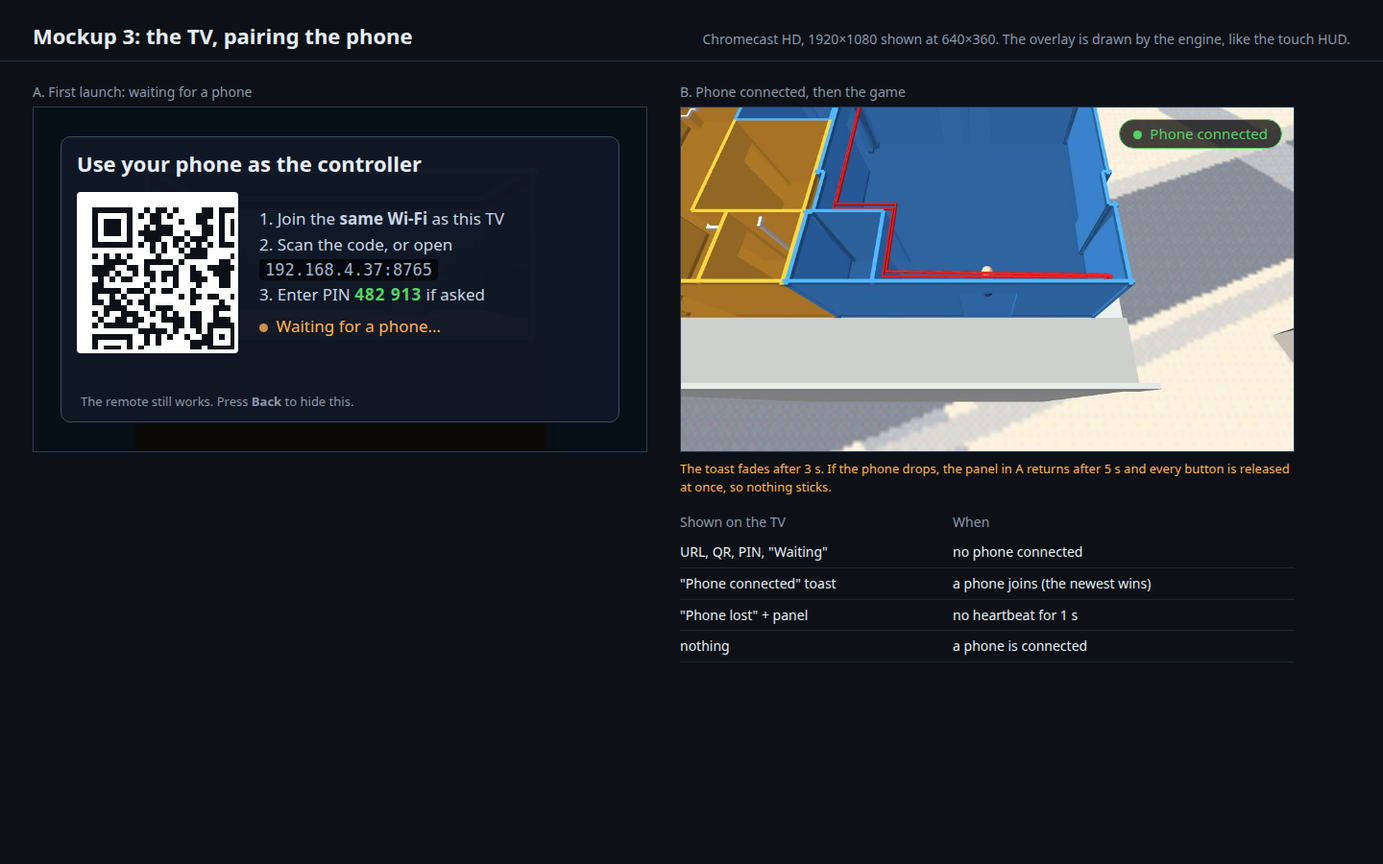
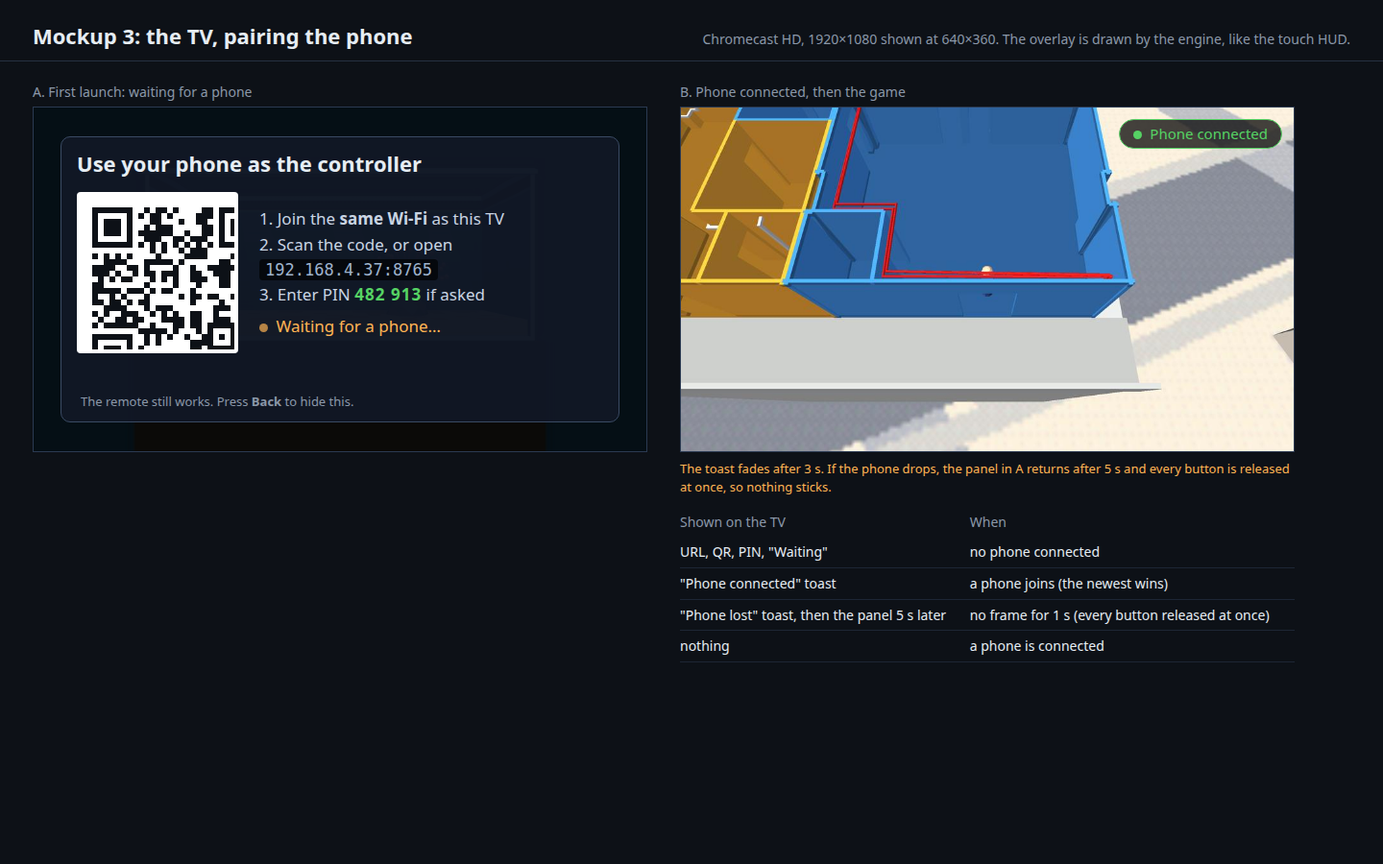
Aquarium-Chromecast plan and phone mockups: the condo's A is doors and shade, no B button; status of Phase E
Since 41742943 the condo's A toggles the glass doors and the balcony shade, there is no hop and B does
nothing on its own. Design item 3 ("A hop, B doors"), the Why paragraph and the note on the user's layout
decision now say so; mockup 2 shows A "doors / shade", no B, E zoom in and F zoom out (as camera_controls.fth
uses them), the engine's real EJ_BUTTONF bits in its mask line and the engine's stick threshold (0.5);
mockup 3's table and mockup 4's keep-awake card match what was built. The newer Phase E sub-step list,
which had landed above the title, replaces the older one. Mockups regenerated with make_phone_mockups.py.

Claude-Session: https://claude.ai/code/session_01DxMP4jUNjCjDz8E9DWzXcM

Changed region(s): [[0.5625, 0.5911, 0.9062, 0.7778]]

diff --git a/docs/plans/2026-09-30-aquarium-chromecast/phone-controller.html b/docs/plans/2026-09-30-aquarium-chromecast/phone-controller.html
@@ -18,10 +18,10 @@ h1{margin:0;font-size:22px;font-weight:650}.top{padding:22px 34px 10px;border-bo
 <div style="padding:18px 34px"><div style="display:flex;gap:34px"><div><div class="sub" style="margin-bottom:6px">A. Aquarium: stick plus two buttons</div>
  <div class="phone"><div class="screen"><div class="status"><span class="dot g"></span> Connected to the TV</div>
   <div class="stick" style="left:34px;top:92px"><div class="ring"></div><div class="knob"></div></div><div class="btn " data-b="A" style="left:500px;top:120px">A</div><div class="btn " data-b="B" style="left:420px;top:160px">B</div></div></div>
- <div class="note" style="margin-top:8px;max-width:600px">Steers the clownfish (A and B are free for later). The stick maps to the same four directions the D-pad does (threshold 28 px of 70), so it behaves exactly like the remote.</div></div><div><div class="sub" style="margin-bottom:6px">B. Condo: stick plus the buttons the remote cannot reach</div>
+ <div class="note" style="margin-top:8px;max-width:600px">Steers the clownfish (A and B are free for later). The stick maps to the same four directions the D-pad does (threshold half the radius, 35 px of 70, the engine's own analog-stick threshold), so it behaves exactly like the remote.</div></div><div><div class="sub" style="margin-bottom:6px">B. Condo: stick plus the buttons the remote cannot reach</div>
  <div class="phone"><div class="screen"><div class="status"><span class="dot g"></span> Connected to the TV</div>
-  <div class="stick" style="left:34px;top:92px"><div class="ring"></div><div class="knob"></div></div><div class="btn " data-b="A" style="left:520px;top:150px">hop</div><div class="btn " data-b="B" style="left:440px;top:98px">doors</div><div class="btn " data-b="C" style="left:520px;top:46px">teleport</div><div class="btn hold" data-b="D" style="left:350px;top:150px">orbit (hold)</div><div class="btn small" data-b="E" style="left:262px;top:46px">zoom −</div><div class="btn small" data-b="F" style="left:262px;top:106px">zoom +</div></div></div>
- <div class="note" style="margin-top:8px;max-width:600px">Doors (B), the 639⇄640 teleport (C), orbit (hold D with the stick) and zoom (E/F) are exactly what a TV remote cannot do. This closes the condo plan's gamepad question without buying a gamepad.</div></div></div>
+  <div class="stick" style="left:34px;top:92px"><div class="ring"></div><div class="knob"></div></div><div class="btn " data-b="A" style="left:520px;top:150px">doors / shade</div><div class="btn " data-b="C" style="left:520px;top:46px">teleport</div><div class="btn hold" data-b="D" style="left:350px;top:150px">orbit (hold)</div><div class="btn small" data-b="E" style="left:262px;top:46px">zoom in</div><div class="btn small" data-b="F" style="left:262px;top:106px">zoom out</div></div></div>
+ <div class="note" style="margin-top:8px;max-width:600px">A toggles the glass doors and the balcony shade (since 2026‑10‑01 there is no hop, and B does nothing on its own, so there is no B button). The 639⇄640 teleport (C), orbit (hold D with the stick; D + A resets the view) and zoom (E in, F out) are what a TV remote cannot do. This closes the condo plan's gamepad question without buying a gamepad.</div></div></div>
 <div class="tiltbar"><label class="sw"><input type="checkbox" id="tiltOn"> <b>Tilt steering</b></label>
  <span class="sub">simulate the phone's tilt:</span> roll <input type="range" id="tx" min="-30" max="30" value="0"> pitch <input type="range" id="ty" min="-30" max="30" value="0">
  <button id="neutral">Set neutral</button> <span class="lvl"><span class="lvlring"><span id="bubble"></span></span></span> <code id="tdeg">off</code>
@@ -30,7 +30,7 @@ h1{margin:0;font-size:22px;font-weight:650}.top{padding:22px 34px 10px;border-bo
 <div class="mask"><span class="sub">sent to the TV on every change (and every 250 ms as a heartbeat):</span><br><code id="mask"></code></div></div>
 <script>
 const touch={}, tilt={LEFT:false,RIGHT:false,UP:false,DOWN:false}, out=document.getElementById('mask');
-const bits={LEFT:1,RIGHT:2,UP:4,DOWN:8,A:16,B:32,C:64,D:128,E:256,F:512};
+const bits={A:1,B:2,C:4,D:8,E:16,F:32,UP:2048,DOWN:4096,RIGHT:8192,LEFT:16384};   // the engine's EJ_BUTTONF_* (hal/sjoystic.h), as the app's layout.json sends them
 const ON=12, OFF=8;                       // tilt dead zone in degrees: a direction turns on past 12 and off below 8 (hysteresis, no flicker)
 function quant(deg,neg,pos){ if(deg<=-ON) tilt[neg]=true; else if(deg>-OFF) tilt[neg]=false; if(deg>=ON) tilt[pos]=true; else if(deg<OFF) tilt[pos]=false; }
 function render(){let m=0,names=[];for(const k in touch)if(touch[k]){m|=bits[k];names.push(k);}
@@ -47,7 +47,7 @@ document.querySelectorAll('[data-b]').forEach(el=>{
 document.querySelectorAll('.stick').forEach(st=>{
   const knob=st.querySelector('.knob');
   function set(dx,dy){const r=70,d=Math.hypot(dx,dy)||1,s=Math.min(1,r/d);knob.style.transform=`translate(${dx*s}px,${dy*s}px)`;
-    const t=28;touch.LEFT=dx<-t;touch.RIGHT=dx>t;touch.UP=dy<-t;touch.DOWN=dy>t;render();}
+    const t=35;touch.LEFT=dx<-t;touch.RIGHT=dx>t;touch.UP=dy<-t;touch.DOWN=dy>t;render();}
   st.addEventListener('pointerdown',e=>{st.setPointerCapture(e.pointerId);const b=st.getBoundingClientRect();st._c=[b.left+b.width/2,b.top+b.height/2];set(e.clientX-st._c[0],e.clientY-st._c[1]);});
   st.addEventListener('pointermove',e=>{if(st._c&&e.buttons)set(e.clientX-st._c[0],e.clientY-st._c[1]);});
   const end=()=>{st._c=null;knob.style.transform='translate(0,0)';touch.LEFT=touch.RIGHT=touch.UP=touch.DOWN=false;render();};

diff --git a/docs/plans/2026-09-30-aquarium-chromecast/phone-states.html b/docs/plans/2026-09-30-aquarium-chromecast/phone-states.html
@@ -14,7 +14,7 @@ h1{margin:0;font-size:22px;font-weight:650}.top{padding:22px 34px 10px;border-bo
  <div class="c"><div class="s"><div class="ph2 w">Reconnecting… <small>buttons off</small></div></div><h3 class="warn">3 Signal lost</h3><p>No reply for 1 s: buttons grey out and the phone retries every second. <b>The TV releases every button at once</b> (no stuck RIGHT).</p></div>
  <div class="c"><div class="s"><div class="ph2 r">Wrong code. Scan the TV again.</div></div><h3 class="bad">4 Wrong PIN</h3><p>The PIN in the URL does not match this launch's: HTTP 403 and a plain message. No game input accepted.</p></div>
  <div class="c"><div class="s"><div class="ph2 r">Can’t reach the TV.<br><small>Same Wi-Fi? Guest network?</small></div></div><h3 class="bad">5 Not on the same Wi-Fi</h3><p>Nothing answers within 5 s. The page says why: join the TV's network; a guest network or <i>AP isolation</i> blocks it.</p></div>
- <div class="c"><div class="s"><div class="ph2 w">Screen kept awake</div></div><h3 class="warn">6 Phone locks or sleeps</h3><p>A screen Wake Lock is requested while connected. If the phone sleeps anyway, it is state 3 and the TV releases the buttons.</p></div>
+ <div class="c"><div class="s"><div class="ph2 w">Screen kept awake</div></div><h3 class="warn">6 Phone locks or sleeps</h3><p>The page keeps the screen awake while connected (a silent looping video: the Wake Lock API needs https). If the phone sleeps anyway, the page releases everything and it is state 3 on the TV.</p></div>
  <div class="c"><div class="s"><div class="ph2 w">Another phone took over</div></div><h3 class="warn">7 A second phone joins</h3><p>The newest connection wins; the first sees “Another phone took over”. Two players is a later feature.</p></div>
  <div class="c"><div class="s"><div class="ph2 w">Enable tilt <small>(one-time certificate prompt)</small></div></div><h3 class="warn">8 Tilt needs a secure page</h3><p>Browsers expose tilt only to <b>https</b> pages. Tap “Enable tilt”: the page reloads over https from the TV and your browser asks once about the certificate. Sticks and buttons never need this.</p></div>
  <div class="c"><div class="s"><div class="ph2 w">Haptics: not on this phone</div></div><h3 class="warn">9 No haptics on iPhone</h3><p>Safari has no vibration API. The toggle is hidden there and the page says so; Android Chrome buzzes. Game-driven buzzes (door, teleport) arrive from the TV as an <code>h:</code> message.</p></div>

diff --git a/docs/plans/2026-09-30-aquarium-chromecast/phone-pairing-tv.html b/docs/plans/2026-09-30-aquarium-chromecast/phone-pairing-tv.html
@@ -26,5 +26,5 @@ table{border-collapse:collapse;font-size:14px;width:640px}th{text-align:left;col
   <div class="note" style="margin-top:8px;max-width:640px">The toast fades after 3 s. If the phone drops, the panel in A returns after 5 s and every button is released at once, so nothing sticks.</div>
   <table style="margin-top:14px"><tr><th>Shown on the TV</th><th>When</th></tr>
    <tr><td>URL, QR, PIN, "Waiting"</td><td>no phone connected</td></tr><tr><td>"Phone connected" toast</td><td>a phone joins (the newest wins)</td></tr>
-   <tr><td>"Phone lost" + panel</td><td>no heartbeat for 1 s</td></tr><tr><td>nothing</td><td>a phone is connected</td></tr></table></div>
+   <tr><td>"Phone lost" toast, then the panel 5 s later</td><td>no frame for 1 s (every button released at once)</td></tr><tr><td>nothing</td><td>a phone is connected</td></tr></table></div>
 </div></body></html>

diff --git a/docs/plans/2026-09-30-aquarium-chromecast/make_phone_mockups.py b/docs/plans/2026-09-30-aquarium-chromecast/make_phone_mockups.py
@@ -54,7 +54,7 @@ tv = page("Mockup 3: the TV, pairing the phone", "Chromecast HD, 1920×1080 show
   <div class="note" style="margin-top:8px;max-width:640px">The toast fades after 3 s. If the phone drops, the panel in A returns after 5 s and every button is released at once, so nothing sticks.</div>
   <table style="margin-top:14px"><tr><th>Shown on the TV</th><th>When</th></tr>
    <tr><td>URL, QR, PIN, "Waiting"</td><td>no phone connected</td></tr><tr><td>"Phone connected" toast</td><td>a phone joins (the newest wins)</td></tr>
-   <tr><td>"Phone lost" + panel</td><td>no heartbeat for 1 s</td></tr><tr><td>nothing</td><td>a phone is connected</td></tr></table></div>
+   <tr><td>"Phone lost" toast, then the panel 5 s later</td><td>no frame for 1 s (every button released at once)</td></tr><tr><td>nothing</td><td>a phone is connected</td></tr></table></div>
 </div>""", """
 .tv{position:relative;width:640px;height:360px;background:#000;border:1px solid #2b3a52;overflow:hidden}.tv img{width:100%;display:block}.dim{position:absolute;inset:0;background:#000a}
 .panel{position:absolute;left:28px;top:30px;right:28px;bottom:30px;background:#111826ee;border:1px solid #3a4a63;border-radius:10px;padding:12px 16px}
@@ -68,7 +68,7 @@ table{border-collapse:collapse;font-size:14px;width:640px}th{text-align:left;col
 # 2. the phone controller (interactive) ----------------------------------------------------------------------------
 JS = """
 const touch={}, tilt={LEFT:false,RIGHT:false,UP:false,DOWN:false}, out=document.getElementById('mask');
-const bits={LEFT:1,RIGHT:2,UP:4,DOWN:8,A:16,B:32,C:64,D:128,E:256,F:512};
+const bits={A:1,B:2,C:4,D:8,E:16,F:32,UP:2048,DOWN:4096,RIGHT:8192,LEFT:16384};   // the engine's EJ_BUTTONF_* (hal/sjoystic.h), as the app's layout.json sends them
 const ON=12, OFF=8;                       // tilt dead zone in degrees: a direction turns on past 12 and off below 8 (hysteresis, no flicker)
 function quant(deg,neg,pos){ if(deg<=-ON) tilt[neg]=true; else if(deg>-OFF) tilt[neg]=false; if(deg>=ON) tilt[pos]=true; else if(deg<OFF) tilt[pos]=false; }
 function render(){let m=0,names=[];for(const k in touch)if(touch[k]){m|=bits[k];names.push(k);}
@@ -85,7 +85,7 @@ document.querySelectorAll('[data-b]').forEach(el=>{
 document.querySelectorAll('.stick').forEach(st=>{
   const knob=st.querySelector('.knob');
   function set(dx,dy){const r=70,d=Math.hypot(dx,dy)||1,s=Math.min(1,r/d);knob.style.transform=`translate(${dx*s}px,${dy*s}px)`;
-    const t=28;touch.LEFT=dx<-t;touch.RIGHT=dx>t;touch.UP=dy<-t;touch.DOWN=dy>t;render();}
+    const t=35;touch.LEFT=dx<-t;touch.RIGHT=dx>t;touch.UP=dy<-t;touch.DOWN=dy>t;render();}
   st.addEventListener('pointerdown',e=>{st.setPointerCapture(e.pointerId);const b=st.getBoundingClientRect();st._c=[b.left+b.width/2,b.top+b.height/2];set(e.clientX-st._c[0],e.clientY-st._c[1]);});
   st.addEventListener('pointermove',e=>{if(st._c&&e.buttons)set(e.clientX-st._c[0],e.clientY-st._c[1]);});
   const end=()=>{st._c=null;knob.style.transform='translate(0,0)';touch.LEFT=touch.RIGHT=touch.UP=touch.DOWN=false;render();};
@@ -110,10 +110,10 @@ def phone(name, buttons, note):
  <div class="note" style="margin-top:8px;max-width:600px">{note}</div></div>"""
 
 
-aq = phone("A. Aquarium: stick plus two buttons", [("A", "A", 500, 120, ""), ("B", "B", 420, 160, "")], "Steers the clownfish (A and B are free for later). The stick maps to the same four directions the D-pad does (threshold 28 px of 70), so it behaves exactly like the remote.")
+aq = phone("A. Aquarium: stick plus two buttons", [("A", "A", 500, 120, ""), ("B", "B", 420, 160, "")], "Steers the clownfish (A and B are free for later). The stick maps to the same four directions the D-pad does (threshold half the radius, 35 px of 70, the engine's own analog-stick threshold), so it behaves exactly like the remote.")
 condo = phone("B. Condo: stick plus the buttons the remote cannot reach",
-              [("A", "hop", 520, 150, ""), ("B", "doors", 440, 98, ""), ("C", "teleport", 520, 46, ""), ("D", "orbit (hold)", 350, 150, "hold"), ("E", "zoom −", 262, 46, "small"), ("F", "zoom +", 262, 106, "small")],
-              "Doors (B), the 639⇄640 teleport (C), orbit (hold D with the stick) and zoom (E/F) are exactly what a TV remote cannot do. This closes the condo plan's gamepad question without buying a gamepad.")
+              [("A", "doors / shade", 520, 150, ""), ("C", "teleport", 520, 46, ""), ("D", "orbit (hold)", 350, 150, "hold"), ("E", "zoom in", 262, 46, "small"), ("F", "zoom out", 262, 106, "small")],
+              "A toggles the glass doors and the balcony shade (since 2026‑10‑01 there is no hop, and B does nothing on its own, so there is no B button). The 639⇄640 teleport (C), orbit (hold D with the stick; D + A resets the view) and zoom (E in, F out) are what a TV remote cannot do. This closes the condo plan's gamepad question without buying a gamepad.")
 pad = page("Mockup 2: the phone as the controller (live: click, drag, tilt)", "Landscape phone page served by the Chromecast. Layout per app, plus tilt steering and haptics. The line at the bottom shows the button mask that would be sent.", f"""
 <div style="padding:18px 34px"><div style="display:flex;gap:34px">{aq}{condo}</div>
 <div class="tiltbar"><label class="sw"><input type="checkbox" id="tiltOn"> <b>Tilt steering</b></label>
@@ -146,7 +146,7 @@ states = page("Mockup 4: the states, including the failures a living room produc
  {card("3 Signal lost", "warn", "No reply for 1 s: buttons grey out and the phone retries every second. <b>The TV releases every button at once</b> (no stuck RIGHT).", '<div class="ph2 w">Reconnecting… <small>buttons off</small></div>')}
  {card("4 Wrong PIN", "bad", "The PIN in the URL does not match this launch's: HTTP 403 and a plain message. No game input accepted.", '<div class="ph2 r">Wrong code. Scan the TV again.</div>')}
  {card("5 Not on the same Wi-Fi", "bad", "Nothing answers within 5 s. The page says why: join the TV's network; a guest network or <i>AP isolation</i> blocks it.", '<div class="ph2 r">Can’t reach the TV.<br><small>Same Wi-Fi? Guest network?</small></div>')}
- {card("6 Phone locks or sleeps", "warn", "A screen Wake Lock is requested while connected. If the phone sleeps anyway, it is state 3 and the TV releases the buttons.", '<div class="ph2 w">Screen kept awake</div>')}
+ {card("6 Phone locks or sleeps", "warn", "The page keeps the screen awake while connected (a silent looping video: the Wake Lock API needs https). If the phone sleeps anyway, the page releases everything and it is state 3 on the TV.", '<div class="ph2 w">Screen kept awake</div>')}
  {card("7 A second phone joins", "warn", "The newest connection wins; the first sees “Another phone took over”. Two players is a later feature.", '<div class="ph2 w">Another phone took over</div>')}
  {card("8 Tilt needs a secure page", "warn", "Browsers expose tilt only to <b>https</b> pages. Tap “Enable tilt”: the page reloads over https from the TV and your browser asks once about the certificate. Sticks and buttons never need this.", '<div class="ph2 w">Enable tilt <small>(one-time certificate prompt)</small></div>')}
  {card("9 No haptics on iPhone", "warn", "Safari has no vibration API. The toggle is hidden there and the page says so; Android Chrome buzzes. Game-driven buzzes (door, teleport) arrive from the TV as an <code>h:</code> message.", '<div class="ph2 w">Haptics: not on this phone</div>')}

diff --git a/docs/plans/2026-09-30-aquarium-chromecast.md b/docs/plans/2026-09-30-aquarium-chromecast.md
@@ -1,8 +1,6 @@
-**Sub-steps, in order:** **E0 the spike** (before building anything else): serve a tiny page over http and over https-with-a-self-signed-certificate from the Chromecast and open both on the user's phone (Android or iPhone, to be told), reading `isSecureContext`, whether orientation events fire, whether `navigator.vibrate` and the Wake Lock exist (step 19). It decides how tilt ships. E1 server, protocol, mask merge and the page, tested on Linux with a headless client (no device needed); E2 Android build, manifest, the TV overlay with the URL and PIN; E3 the QR code; E4 device run on the Chromecast with a real phone, aquarium and condo; E5 the failure states of mockup 4 (lost signal, wrong PIN, other network, second phone, tilt needs https, no haptics on iPhone); **E6 tilt** (the https listener and TLS, the quantiser, neutral calibration); **E7 haptics** (local ticks first, then the `h:` message on sound slots).
-
 # The aquarium as its own app on a Chromecast with Google TV
 
-Status: **done on a real Chromecast HD** (2026‑10‑01); **Phase D (audio) and Phase E (the phone as a gamepad, designed) are open**. Written 2026‑10‑01 09:55 (+07) = 02:55 UTC, **after the fact**. The agent that was to write this
+Status: **done on a real Chromecast HD** (2026‑10‑01); **Phase D (audio) is open; Phase E (the phone as a gamepad) has E1 to E3 built and checked on the Chromecast, with the steps that need the user's phone, tilt and game-driven haptics open** ([Phase E progress](#phase-e-progress)). Written 2026‑10‑01 09:55 (+07) = 02:55 UTC, **after the fact**. The agent that was to write this
 plan alongside the Android work was stopped on 2026‑09‑30 (out of tokens) before it wrote the file, so four documents linked to a plan that did not exist
 ([the aquarium-on-every-platform plan](2026-09-30-aquarium-platforms.md), [the Chromecast plan](2026-04-23-chromecast-googletv-port.md),
 [the condo plan](2026-10-01-condo-chromecast.md) and a second copy of the Chromecast plan); my own earlier statement that results had been appended to it was wrong. Everything below is
@@ -97,8 +95,8 @@ Four consequences, decided here so the two plans do not collide:
 
 ## Phase E: the phone as a gamepad
 
-**Why.** The Chromecast remote has a D-pad and OK only. The aquarium needs just the D-pad, but the condo needs doors (B), the 639⇄640 teleport (C), orbit (hold D) and zoom (E/F), which the
-remote cannot reach ([the condo plan](2026-10-01-condo-chromecast.md), mockup 2, and its Verification 9). A phone in the hand is the gamepad everyone already has, so Phase E replaces
+**Why.** The Chromecast remote has a D-pad and OK only. The aquarium needs just the D-pad, but the condo needs the 639⇄640 teleport (C), orbit (hold D) and zoom (E/F), which the
+remote cannot reach (its doors and balcony shade are on A, which the remote's OK sends since 2026‑10‑01, commit `41742943`) ([the condo plan](2026-10-01-condo-chromecast.md), mockup 2, and its Verification 9). A phone in the hand is the gamepad everyone already has, so Phase E replaces
 "buy and pair a Bluetooth gamepad" as the way to play those buttons.
 
 **Design, in one sentence:** the TV app serves a one-page web controller over the local Wi-Fi; the phone opens it by scanning a QR code on the TV (no app to install, works on any phone, iPhone
@@ -114,7 +112,7 @@ How it fits the existing code (read from `wfsource/source/hal/android/native_app
 2. **Pairing and safety:** the server listens only while the app is resumed and only on the Wi-Fi interface; every launch picks a fresh random PIN carried in the QR URL (`/?k=482913`), checked on the page
    request and on the WebSocket; the newest phone wins. LAN only: no cloud, no relay, nothing reachable from the internet.
 3. **The page** (`assets/controller.html`, inline CSS and JS, one file in the APK): pointer events with multi-touch and pointer capture, a virtual stick (same threshold the engine uses) and buttons from
-   the layout (aquarium: stick, A, B; condo: stick, A hop, B doors, C teleport, D orbit-hold, E/F zoom), `touch-action: none`, a "rotate your phone" hint in portrait, and the screen kept awake while connected. **Correction:** this plan first said "a screen Wake Lock", but the Wake Lock API is secure-context only: Chrome on a plain `http://<LAN IP>` page shows `navigator.wakeLock` absent (measured, below). The plain page therefore needs the silent-looping-video trick and the https page can use the real API; both are checked on the phone in step 19.
+   the layout (aquarium: stick, A, B; condo: stick, A doors and shade, C teleport, D orbit-hold, E zoom in, F zoom out, and **no B**; corrected 2026‑10‑01: this item first said "A hop, B doors", but since commit `41742943` A toggles the glass doors and the balcony shade, there is no hop, and B does nothing on its own), `touch-action: none`, a "rotate your phone" hint in portrait, and the screen kept awake while connected. **Correction:** this plan first said "a screen Wake Lock", but the Wake Lock API is secure-context only: Chrome on a plain `http://<LAN IP>` page shows `navigator.wakeLock` absent (measured, below). The plain page therefore needs the silent-looping-video trick and the https page can use the real API; both are checked on the phone in step 19.
 4. **The TV overlay:** drawn by the engine like the touch HUD: URL, QR, PIN and "Waiting for a phone…" until a phone connects, then a 3 s "Phone connected" toast; the panel returns if the phone drops.
    The QR is generated at run time (the URL holds the IP and a per-launch PIN, so it cannot be pre-rendered): a small vendored encoder (for example Nayuki's MIT-licensed QR Code generator).
    **Step E1 ships the text URL and PIN first; the QR is E3**, so the feature is usable before the encoder lands.
@@ -126,8 +124,7 @@ How it fits the existing code (read from `wfsource/source/hal/android/native_app
    a second one: a level script already plays sound slot *n* by writing mailbox 3017 (`actor.cc:1694`), so when slot *n* plays the engine can also send the phone pattern *n* (a small per-level table, default none). One script write then gives a sound on the TV and a buzz in the hand, and the event list is authored once ([the SFX plan](2026-10-01-sfx-without-lua.md), Phase D). Phone support: Android Chrome has `navigator.vibrate`; **iPhone Safari has no Vibration API** (documented, to be confirmed on the phone), so the toggle is hidden there and the page says so.
 8. **A secure context for tilt (the constraint that shapes the build).** Browsers expose motion sensors only to secure contexts. Measured with Chrome on this PC against a plain `http://192.168.4.21` page: `isSecureContext: false`, `DeviceOrientationEvent` and `DeviceMotionEvent` **undefined**, the Generic Sensor classes undefined, `navigator.wakeLock` **absent**, while `navigator.vibrate` and `WebSocket` are present. (A control run on a secure origin, to prove the gating rather than headless desktop having no sensors, did not complete here; iOS Safari additionally wants `DeviceMotionEvent.requestPermission()` from a user gesture. Both are checked in step 19.) So tilt cannot come from the plain http page that sticks and buttons use. The only zero-install route is **https from the TV with a self-signed certificate**: the page offers "Enable tilt", reloads over https from the TV (a second port), and the phone asks once whether to trust the certificate; the WebSocket on that page must then be `wss://` because browsers block `ws://` from an https page. That needs a small TLS library in the app (for example BearSSL, MIT, or mbedTLS) and a certificate shipped with the app, so **anyone on the same Wi-Fi who can read this repository holds the certificate's key**: acceptable for a game controller behind the PIN, and written down here so it is a choice, not a surprise. If step 19 shows the route does not work on the user's phone, tilt falls back to a native companion app (rejected above for the sticks and buttons, but the only way to read sensors without https), which is a decision for the user.
 
-**Sub-steps, in order:** E1 server, protocol, mask merge and the page, tested on Linux with a headless client (no device needed); E2 Android build, manifest, the TV overlay with the URL and PIN;
-E3 the QR code; E4 device run on the Chromecast with a real phone (the user's), aquarium and condo; E5 the failure states of mockup 4 (lost signal, wrong PIN, other network, second phone).
+**Sub-steps, in order:** **E0 the spike** (before building anything else): serve a tiny page over http and over https-with-a-self-signed-certificate from the Chromecast and open both on the user's phone (Android or iPhone, to be told), reading `isSecureContext`, whether orientation events fire, whether `navigator.vibrate` and the Wake Lock exist (step 19). It decides how tilt ships. E1 server, protocol, mask merge and the page, tested on Linux with a headless client (no device needed); E2 Android build, manifest, the TV overlay with the URL and PIN; E3 the QR code; E4 device run on the Chromecast with a real phone, aquarium and condo; E5 the failure states of mockup 4 (lost signal, wrong PIN, other network, second phone, tilt needs https, no haptics on iPhone); **E6 tilt** (the https listener and TLS, the quantiser, neutral calibration); **E7 haptics** (local ticks first, then the `h:` message on sound slots).
 
 ### Phase E progress
 
@@ -189,7 +186,7 @@ Implemented on 2026‑10‑01 (E1, E2, E3 and the headless half of E5). E0, E4 a
 [![The phone controller](2026-09-30-aquarium-chromecast/phone-controller.png)](2026-09-30-aquarium-chromecast/phone-controller.html)
 
 **2. The phone as the controller (live: click and drag the controls).** Landscape page, layout per app; the line under the phones shows the exact button mask that would be sent.
-**Decided by the user on 2026‑10‑01 ("sure"):** the condo layout is right (doors B, teleport C, orbit-hold D, zoom E/F) and a plain digital stick (the engine's existing four directions) is enough for v1. The strip under the phones adds tilt (drag the sliders; the dead zone and hysteresis are live) and shows the haptic tick.
+**Decided by the user on 2026‑10‑01 ("sure"):** the condo layout is right (doors B, teleport C, orbit-hold D, zoom E/F; **superseded the same day for the doors:** they moved to A with the shade in commit `41742943`, so the mockup now shows A "doors / shade" and no B button, and labels E zoom in and F zoom out, the way `camera_controls.fth` uses them) and a plain digital stick (the engine's existing four directions) is enough for v1. The strip under the phones adds tilt (drag the sliders; the dead zone and hysteresis are live) and shows the haptic tick.
 [Open the interactive mockup](2026-09-30-aquarium-chromecast/phone-controller.html).
 
 [![The TV, pairing the phone](2026-09-30-aquarium-chromecast/phone-pairing-tv.png)](2026-09-30-aquarium-chromecast/phone-pairing-tv.html)

diff --git a/docs/plans/.history/2026-09-30-aquarium-chromecast.md b/docs/plans/.history/2026-09-30-aquarium-chromecast.md
@@ -1,5 +1,7 @@
 | Date | Change |
 |------|--------|
+| [2026-10-01](https://github.com/wbniv/WorldFoundry/commit/ab919ab8) | Phone as a gamepad, E3: the QR code on the TV overlay (vendored Nayuki qrcodegen, MIT) |
+| [2026-10-01](https://github.com/wbniv/WorldFoundry/commit/6697f300) | Phone as a gamepad, E2: Android wiring, INTERNET for aquarium and condo, the TV overlay with URL and PIN |
 | [2026-10-01](https://github.com/wbniv/WorldFoundry/commit/3c51eafc) | Phone as a gamepad, E1: portable server, protocol and controller page, tested headless on Linux |
 | [2026-10-01](https://github.com/wbniv/WorldFoundry/commit/8776018f) | Soundfont: a reproducible recipe (task soundfont) replaces the never-committed florestan-subset.sf2 |
 | [2026-10-01](https://github.com/wbniv/WorldFoundry/commit/15dd5ee6) | Aquarium-Chromecast plan: snowgoons is silent on Android (no soundfont, Q*bert sfx not found), so it is not the audio-route check; the display chain does advertise audio, the monitor just has no speakers |
@@ -9,6 +11,16 @@
 | [2026-10-01](https://github.com/wbniv/WorldFoundry/commit/c48d5a8b) | Write the missing aquarium-on-Chromecast plan (four docs linked to it): rebuilt from the commits and device-run evidence |
 
 <!--history-meta v1
+ab919ab8	author	Will Norris
+ab919ab8	added	5
+ab919ab8	deleted	1
+ab919ab8	files	1
+ab919ab8	body	The overlay encodes the full URL with this launch's PIN (http://<ip>:8765/?k=<pin>) at run time and\ndraws it left of the address and PIN: black modules on white, a 4-module quiet zone, about 600 px at\n1080p on whole pixels (16 px modules for the usual 29-module code). The text URL and PIN stay as the\nfallback. engine/vendor/qrcodegen-3c6d0b3c: the C version at commit 3c6d0b3c, unmodified, licence and\nSHA-256 recorded in engine/vendor/README.md; compiled into the Android library and the Linux test host.\n\nTests (no new dependency): tests/qr_decode.py, a small reader written from ISO/IEC 18004 (format BCH,\nunmasking, zigzag, block de-interleave, byte mode, Reed-Solomon check), proved on segno's codes; the\nengine's code reads back to the URL, matches segno's function patterns and has correct RS bytes; the\noverlay's composited frame samples back to exactly that code with its quiet zone at 1080p and 720p.\nA transposed code fails 10 of them. On the Chromecast HD the code read back from the real screenshot\ngives http://192.168.4.38:8765/?k=299223. Brought forward from E3 at the user's request.\n\nCo-Authored-By: Claude Opus 5.5 <noreply@anthropic.com>\nClaude-Session: https://claude.ai/code/session_01DxMP4jUNjCjDz8E9DWzXcM
+6697f300	author	Will Norris
+6697f300	added	40
+6697f300	deleted	6
+6697f300	files	1
+6697f300	body	native_app_entry.cc: Emit() ORs a third source, gPhoneButtons, into _HALSetJoystickButtons; the\nphonepad server is polled once per frame from WFAndroidPumpEvents, started on APP_CMD_RESUME on\nthe Wi-Fi address (private addresses only; retried every 3 s without a network), stopped on\nAPP_CMD_PAUSE (releasing the phone's buttons), with one PIN per launch and one logcat line per\nphone-mask change. Back while the panel shows hides it; otherwise Back is unchanged.\n\nphonepad_overlay.{h,cc}: the panel / "Phone connected" (3 s) / "Phone lost" then panel after 5 s\nstates as solid rectangles, text from the vendored stb_easy_font; android_window.cc draws them after\nthe touch HUD (also on TV) from a buffer re-uploaded only on change. CMake builds hal/phonepad into\nthe Android library. src/{aquarium,condo}/AndroidManifest.xml add only INTERNET; main and snowgoons\nget no permission.\n\nTests: overlay states and geometry on a fake clock (renders to ~/tmp/phone-controller/), static\nchecks of the merge, lifecycle, Back, draw order, CMake, manifests and the built APKs. Verified on\nthe Chromecast HD: release condo app at 59.9 fps with the panel; a LAN client got the page, a 403 for a\nwrong PIN, the toast, a 4002 timeout and the panel back. Plan: verification 12 to 15, a Wi-Fi\npower-save latency finding.\n\nCo-Authored-By: Claude Opus 5.5 <noreply@anthropic.com>\nClaude-Session: https://claude.ai/code/session_01DxMP4jUNjCjDz8E9DWzXcM
 3c51eafc	author	Will Norris
 3c51eafc	added	32
 3c51eafc	deleted	2
